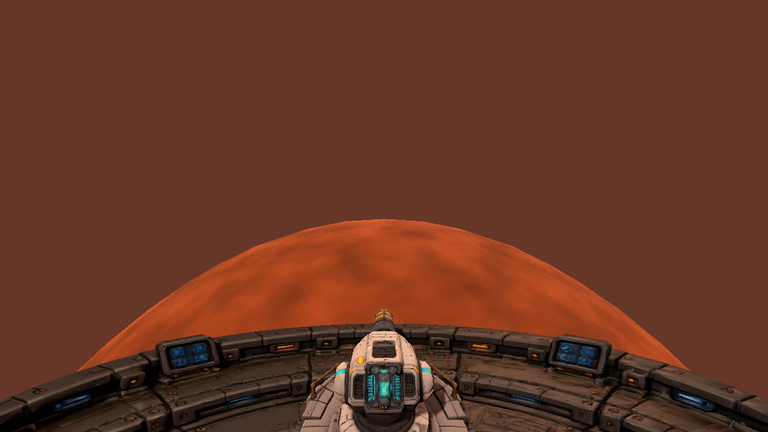
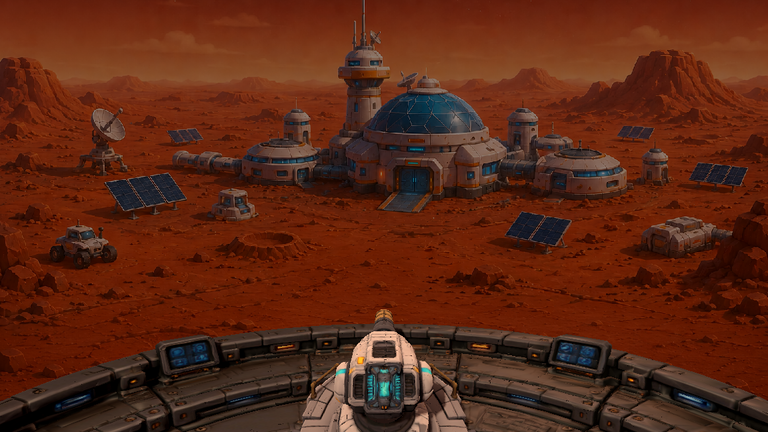
Mars: a painted mining-outpost backdrop instead of a ground sphere
Mars is the scene the storyboard describes as a raid on a mining
operation, and it was being fought over a flat-shaded sphere with noise
on it. It now hangs a painted backdrop of the outpost on the red plain.

The `look` table's `earth_image` block becomes `photo`, with a per-scene
`texture`: ISS and Earth still hang the Earth photograph, Mars hangs its
own. SceneLook keeps the backdrop quad's authored width — hand-tuned to
cover the frustum at the depth it sits — and takes its height from the
image's aspect, so a 3:2 image crops top and bottom rather than being
stretched to Earth's 1.79:1.

Mars' `bodies` is now empty. The photo paints its own ground, horizon and
dust haze; the sphere sat in front of it and cut the outpost in half.

The image is knocked back further than Earth's, and towards grey. It is
saturated orange edge to edge and the one backdrop detailed enough to
hide a saucer in — photographed with the wave up to check that scouts and
a carrier still read. Brighter is prettier and darker is easier to shoot
against; 0.55 is a compromise picked on a monitor, not on the kiosk.

A backdrop path that doesn't resolve is a push_warning and a scene with
no backdrop, the same deliberate silence as a missing sound, so
campaign_data_test now checks every path against the disk and
scene_look_test checks that the right image is hung at the right shape.
destination_3.png, the attract still, is re-shot to match.

diff --git a/CLAUDE.md b/CLAUDE.md
@@ -43,6 +43,7 @@ When adding features, keep these three subsystems (sign-in, timer, ranking) as d
 - The files under `assets/audio/` are **placeholders** written by `tools/gen_placeholder_audio.py` (Python stdlib only, seeded so re-running doesn't churn the repo). Replace one by dropping a `.wav` with the same name in the same folder — no code changes. Regenerate with `python tools/gen_placeholder_audio.py`, then let Godot reimport.
 - The title's attract stills (`assets/backdrop/destination_1..4.png`) are **photographs of the real `Game.tscn` scenes** with the HUD hidden. Re-shoot them if the scene looks change, or the attract screen advertises a game that no longer exists.
 - Per-scene content (story line, fact card, quiz, spawn table, backdrop) belongs in one **campaign data table** (`CampaignData.gd`) that briefing, quiz, HUD, and spawner all read from — adding a fact or a 5th scene should be a data change, not a code change.
+- A scene's battlefield backdrop is the `look.photo` block in that table: drop an image in `assets/backdrop/`, point `texture` at it, and `tint` it down so it stays scenery and the aliens stay the brightest thing crossing it. `SceneLook.gd` hangs it on the one quad authored in `Game.tscn`, keeping the quad's hand-tuned width and taking its **height from the image's own aspect** — so images of different shapes crop rather than stretch. A `texture` path that doesn't resolve is a `push_warning` and a scene with no backdrop, same deliberate silence as a missing sound, which is why `tests/campaign_data_test.gd` checks every path against the disk. A scene whose photo paints its own ground (Mars) wants `bodies: []` — a procedural sphere in front of a painted horizon just cuts it in half.
 - Current layout: gameplay scenes in `res://scenes/` (`Game`, `Turret`, `AlienShip`, `Laser`, `HitEffect`) and their scripts in `res://scripts/`. Extend these rather than recreating them; keep the `scenes/`–`scripts/` split.
 - Hand-editing a `.tscn` to give a script a node reference (`@export var x: SomeNode`) needs
   `node_paths=PackedStringArray("x", …)` on the `[node …]` line as well as the `x = NodePath(…)`
